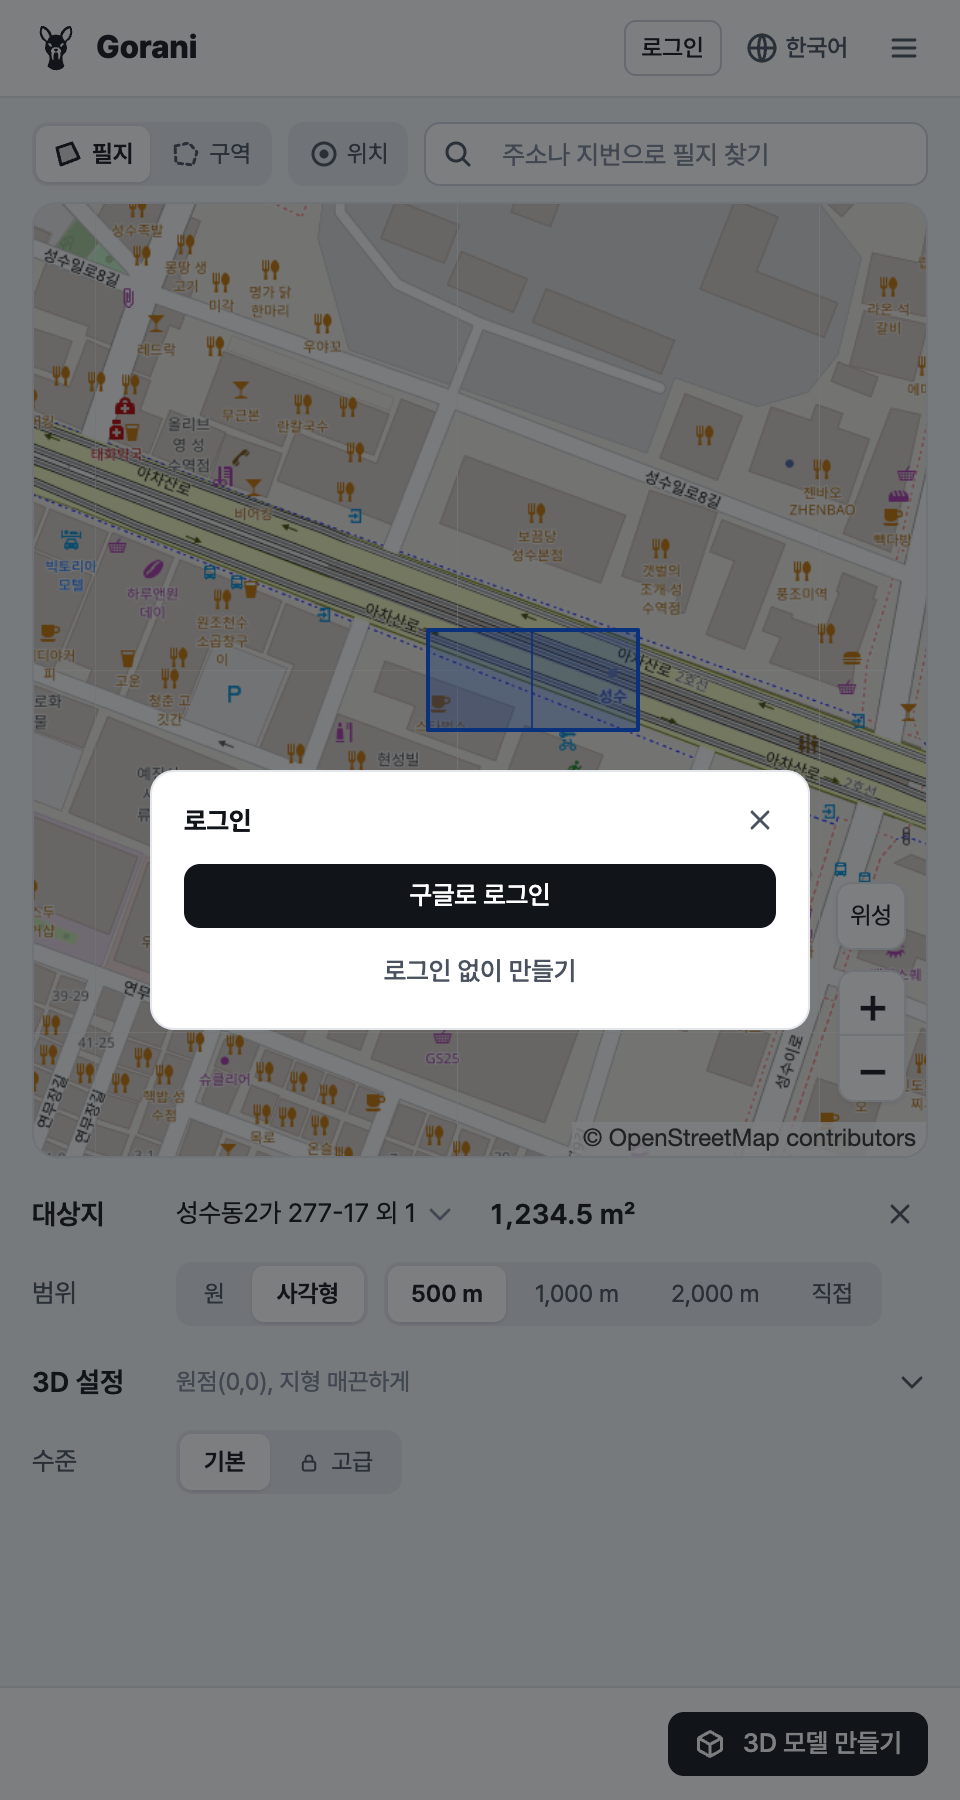
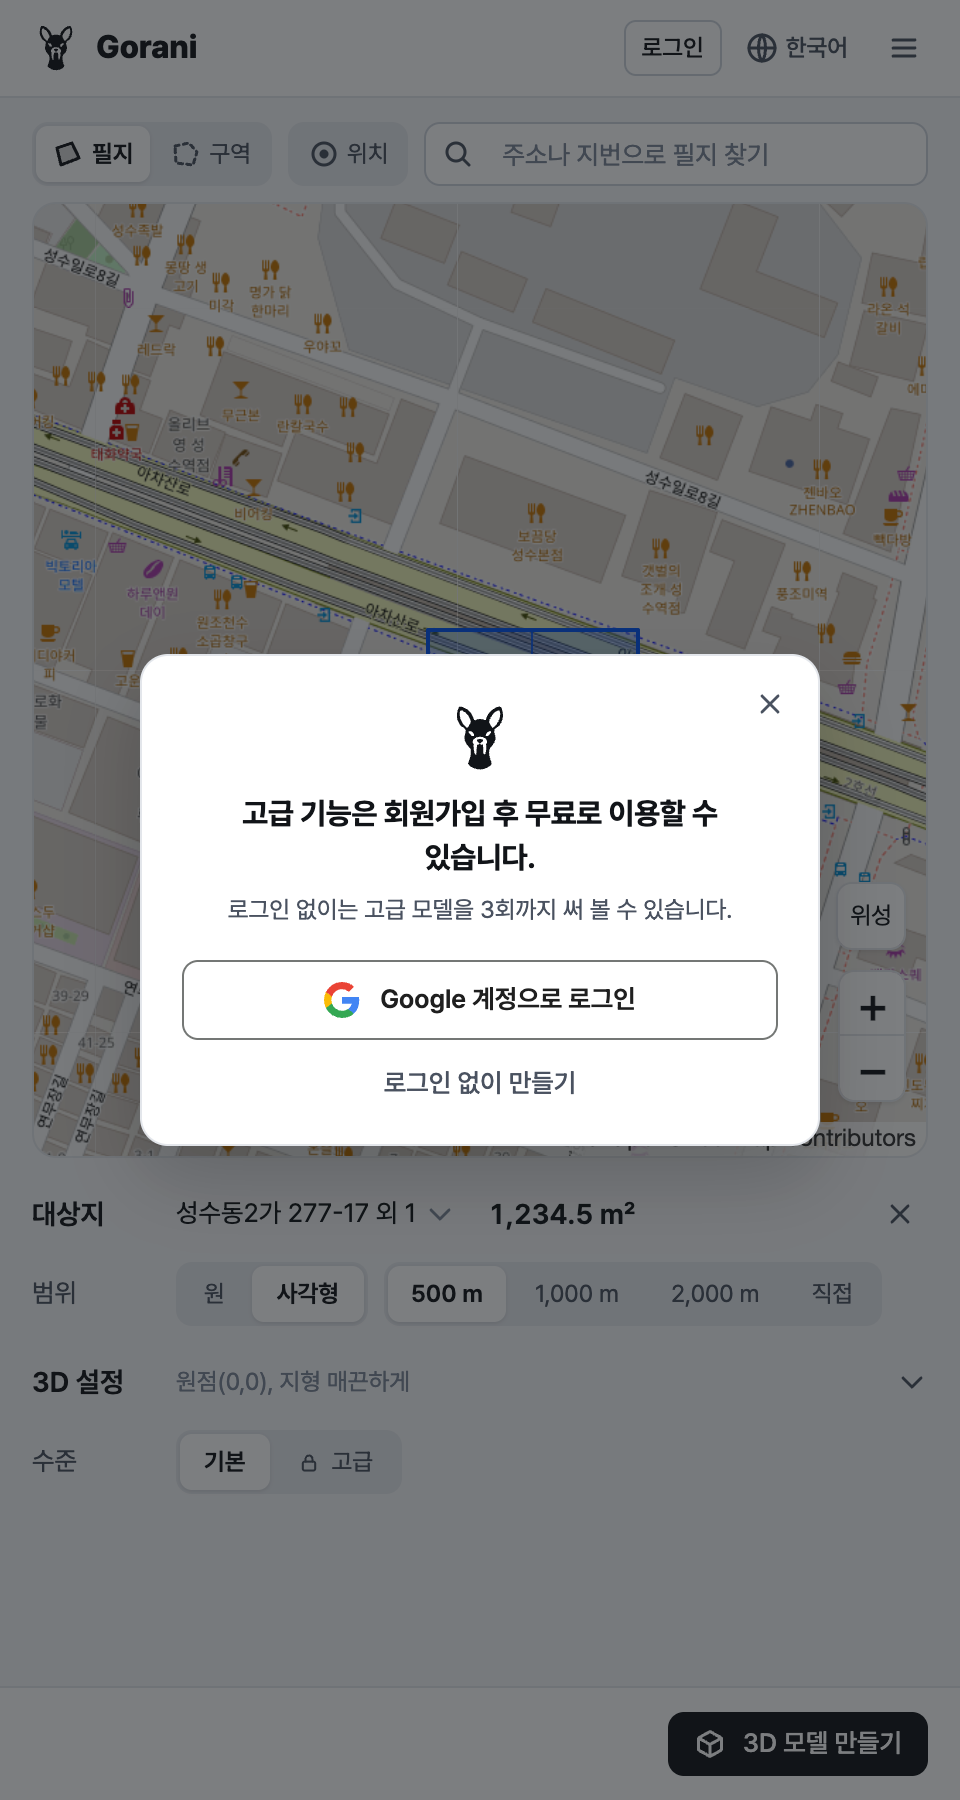
로그인 창 다시: 고라니 마크·가운데 정렬·고급 6종 체크 목록·Google 브랜드 단추(G 로고, 밝은·어두운), 처음 만들 때 '로그인 없이는 고급 모델을 n회까지' 알림, 써 보기 'n회 남음', 계정 창 머리글자

Changed region(s): [[0.125, 0.3422, 0.875, 0.6533]]

diff --git a/scripts/site_ui.html b/scripts/site_ui.html
@@ -128,18 +128,28 @@ html:lang(zh-Hans) body { font-family: -apple-system, "PingFang SC", "Microsoft 
 .hdr-login { height: 28px; padding: 0 10px; font-size: 12px; }
 #acct_pop { position: absolute; top: 44px; right: 8px; z-index: 1100; width: 248px; background: var(--surface); border: 1px solid var(--line); border-radius: 12px; box-shadow: 0 8px 24px rgba(0, 0, 0, .14); padding: 4px 0; }
 #acct_pop[hidden] { display: none; }
-#acct_pop .r { display: flex; align-items: center; gap: 8px; min-height: 44px; padding: 0 8px 0 12px; }
+#acct_pop .r { display: flex; align-items: center; gap: 10px; min-height: 52px; padding: 0 8px 0 12px; }
+#acct_pop .av { width: 30px; height: 30px; border-radius: 50%; background: var(--accent-wash); color: var(--accent-ink); display: grid; place-items: center; font-weight: 700; font-size: 13px; flex: none; text-transform: uppercase; }
 #acct_pop .v { flex: 1; min-width: 0; overflow: hidden; text-overflow: ellipsis; white-space: nowrap; }
 #acct_pop .v small { display: block; color: var(--ink-3); font-size: 11px; line-height: 16px; }
 #acct_modal { position: fixed; inset: 0; z-index: 1100; background: rgba(17, 20, 24, .55); display: flex; align-items: center; justify-content: center; padding: 16px; }
 #acct_modal[hidden] { display: none; }
-#acct_modal .dlg { position: relative; background: var(--surface); border: 1px solid var(--line); border-radius: 12px; padding: 16px 16px 12px; width: 100%; max-width: 330px; max-height: 100%; overflow: auto; }
-#acct_modal .adv { margin: -6px 28px 12px 0; color: var(--ink-3); font-size: 11.5px; line-height: 17px; }   /* 고급에 드는 것 한 줄 */
+#acct_modal .dlg { position: relative; background: var(--surface); border: 1px solid var(--line); border-radius: 14px; padding: 24px 20px 14px; width: 100%; max-width: 340px; max-height: 100%; overflow: auto; text-align: center; box-shadow: 0 16px 40px rgba(0, 0, 0, .18); }
 #acct_modal .x { position: absolute; top: 8px; right: 8px; }
-#acct_modal h2 { margin: 0 28px 12px 0; font-size: 13px; line-height: 1.4; font-weight: 700; }
-#acct_modal .wide { width: 100%; justify-content: center; }
-#acct_modal .wide + .wide { margin-top: 6px; }
-#acct_modal .spin { width: 22px; height: 22px; margin: 2px auto 10px; border: 2px solid var(--line); border-top-color: var(--ink); border-radius: 50%; animation: acct-spin 1s linear infinite; }
+#acct_modal .mk { display: block; width: 34px; height: 34px; margin: 0 auto 10px; color: var(--ink); }
+#acct_modal h2 { margin: 0 8px 6px; font-size: 15px; line-height: 22px; font-weight: 700; letter-spacing: -.01em; word-break: keep-all; }
+#acct_modal .sub { margin: 0 8px 16px; color: var(--ink-2); font-size: 12px; line-height: 18px; word-break: keep-all; }
+#acct_modal .gets { list-style: none; margin: 0 0 16px; padding: 10px 12px; border-radius: 10px; background: var(--press); display: grid; grid-template-columns: 1fr 1fr; gap: 4px 10px; text-align: left; font-size: 12px; line-height: 18px; color: var(--ink); }
+#acct_modal .gets li { display: flex; align-items: center; gap: 6px; min-width: 0; }
+#acct_modal .gets .ico { width: 12px; height: 12px; color: var(--accent); flex: none; }
+#acct_modal .alt { width: 100%; justify-content: center; margin-top: 6px; color: var(--ink-2); }
+#acct_modal .left-note { margin: 8px 0 0; color: var(--ink-3); font-size: 11px; line-height: 16px; }
+#acct_modal .spin { width: 28px; height: 28px; margin: 4px auto 14px; border: 2.5px solid var(--line); border-top-color: var(--accent); border-radius: 50%; animation: acct-spin .9s linear infinite; }
+/* Google 로그인 단추 — Google 브랜드 지침의 밝은·어두운 꼴(흰 바탕·회색 테두리·G 로고) */
+.gbtn { display: flex; align-items: center; justify-content: center; gap: 10px; width: 100%; height: 40px; padding: 0 12px; border-radius: 8px; border: 1px solid #747775; background: #fff; color: #1f1f1f; font: inherit; font-size: 13px; font-weight: 600; cursor: pointer; }
+.gbtn:hover { background: #f6f8fa; }
+.gbtn .g { width: 18px; height: 18px; flex: none; }
+@media (prefers-color-scheme: dark) { .gbtn { background: #131314; border-color: #8e918f; color: #e3e3e3; } .gbtn:hover { background: #1e1f20; } }
 @keyframes acct-spin { to { transform: rotate(360deg); } }
 .seg .lk { width: 11px; height: 11px; margin-right: 2px; vertical-align: -1px; }   /* 손님의 '고급' — 자물쇠 하나 */
 .check-list { display: grid; grid-template-columns: 1.4em 7em 1fr; gap: 4px 8px; margin-bottom: 16px; }
@@ -963,10 +973,11 @@ function rangeHtml() {
     '<div id="radius_hint" class="hint" hidden>' + tr("범위가 크면 만드는 데 1분 넘게 걸릴 수 있습니다") + "</div>";
 }
 // 수준 [기본 | 고급] — 3D 설정 아래 한 줄. 설명 줄은 두지 않고 '고급'에 든 것은 마우스 올림 글로(2026-11-16 사용자 — 단추 아래 줄은 지저분하다)
-function advancedNames() {
+function advancedKeys() {
   var f = state.init && state.init.features && state.init.features.detail_advanced;
-  return ((f && f.options) || Object.keys(DETAIL_NAMES)).map(function (k) { return tr(DETAIL_NAMES[k] || k); }).join(" · ");
+  return (f && f.options) || Object.keys(DETAIL_NAMES);
 }
+function advancedNames() { return advancedKeys().map(function (k) { return tr(DETAIL_NAMES[k] || k); }).join(" · "); }
 function isAdvanced(o) { return !!o && o.detail_level === "advanced"; }
 function levelHtml() {
   var adv = isAdvanced(state.options), lock = !!ACCT && ACCT.locked("detail_advanced");   // 손님 — 자물쇠, 고르면 플랜 창(ACCT)
@@ -2526,6 +2537,7 @@ var handlers = {
 };
 // [blender-cut] 회원 — 로그인은 시스템 브라우저(gorani.site/login/)에서, 패널은 계정 상태와 권한만 본다(docs/account_plan.md).
 // 손님이 '고급'을 고르면 플랜 창(Guest · Member), 머리줄 [로그인]·처음 만들기는 작은 로그인 창. 기다리는 동안 account_poll로 묻는다
+var G_LOGO = '<svg class="g" viewBox="0 0 48 48" aria-hidden="true"><path fill="#EA4335" d="M24 9.5c3.54 0 6.71 1.22 9.21 3.6l6.85-6.85C35.9 2.38 30.47 0 24 0 14.62 0 6.51 5.38 2.56 13.22l7.98 6.19C12.43 13.72 17.74 9.5 24 9.5z"/><path fill="#4285F4" d="M46.98 24.55c0-1.57-.15-3.09-.38-4.55H24v9.02h12.94c-.58 2.96-2.26 5.48-4.78 7.18l7.73 6c4.51-4.18 7.09-10.36 7.09-17.65z"/><path fill="#FBBC05" d="M10.53 28.59c-.48-1.45-.76-2.99-.76-4.59s.27-3.14.76-4.59l-7.98-6.19C.92 16.46 0 20.12 0 24c0 3.88.92 7.54 2.56 10.78l7.97-6.19z"/><path fill="#34A853" d="M24 48c6.48 0 11.93-2.13 15.89-5.81l-7.73-6c-2.15 1.45-4.92 2.3-8.16 2.3-6.26 0-11.57-4.22-13.47-9.91l-7.98 6.19C6.51 42.62 14.62 48 24 48z"/></svg>';   // Google G(브랜드 지침 — 로그인 단추에만)
 var ACCT_ICON = '<svg class="ico" viewBox="0 0 16 16" aria-hidden="true" fill="none" stroke="currentColor" stroke-width="1.3"><circle cx="8" cy="8" r="6.6"/><circle cx="8" cy="6.5" r="2.2"/><path d="M4.4 12.4c.9-1.5 2.1-2.3 3.6-2.3s2.7.8 3.6 2.3" stroke-linecap="round"/></svg>';
 ACCT = {
   trial: false, pending: null, poll: null, kind: null,
@@ -2551,22 +2563,30 @@ ACCT = {
   togglePop: function () {
     var p = $("acct_pop"), s = this.st();
     if (!p.hidden) { this.closePop(); return; }
-    p.innerHTML = '<div class="r"><span class="v">' + esc(s.email || "") + "<small>" + esc(s.plan_name || "Member") + '</small></span><button type="button" class="btn sm" data-act="acct_logout">' +
+    p.innerHTML = '<div class="r"><span class="av" aria-hidden="true">' + esc((s.email || "?").charAt(0)) + '</span><span class="v">' + esc(s.email || "") + "<small>" + esc(s.plan_name || "Member") + '</small></span><button type="button" class="btn sm" data-act="acct_logout">' +
       tr("로그아웃") + "</button></div>";
     p.hidden = false; this.renderHeader();
     var b = p.querySelector("button"); if (b) b.focus();
   },
   closePop: function () { $("acct_pop").hidden = true; this.renderHeader(); },
-  open: function (kind, build) {   // plans | login | wait
-    var m = $("acct_modal"), x = '<button type="button" class="ib x" data-act="acct_close" aria-label="' + tr("닫기") + '" title="' + tr("닫기") + '">' + ico("x") + "</button>";
-    var google = '<button type="button" class="btn primary wide" data-act="acct_login">' + tr("구글로 로그인") + "</button>", html, left = this.left("detail_advanced");
+  open: function (kind, build) {   // plans(손님이 고급) | login(머리줄, 처음 만들기면 build) | wait
+    var m = $("acct_modal"), left = this.left("detail_advanced"), html;
+    var x = '<button type="button" class="ib x" data-act="acct_close" aria-label="' + tr("닫기") + '" title="' + tr("닫기") + '">' + ico("x") + "</button>";
+    var mark = '<svg class="ico mk" aria-hidden="true"><use href="#i-gorani"/></svg>';
+    var title = function (t) { return '<h2 id="acct_title">' + t + "</h2>"; };
+    var sub = function (t) { return '<p class="sub">' + t + "</p>"; };
+    var google = '<button type="button" class="gbtn" data-act="acct_login">' + G_LOGO + tr("Google 계정으로 로그인") + "</button>";
+    var free = tr("고급 기능은 회원가입 후 무료로 이용할 수 있습니다.");
+    var limit = left ? tr("로그인 없이는 고급 모델을 {0}회까지 써 볼 수 있습니다.", left) : tr("로그인 없이 써 볼 수 있는 고급 모델을 다 썼습니다.");
     this.kind = kind;
-    if (kind === "wait") html = '<div class="spin" aria-hidden="true"></div><h2 id="acct_title" style="margin-right:0;text-align:center">' + tr("브라우저에서 로그인 중") + "</h2>" +
-      '<button type="button" class="btn wide" data-act="acct_close">' + tr("취소") + "</button>";
-    else if (kind === "plans") html = x + '<h2 id="acct_title">' + tr("고급 기능은 회원가입 후 무료로 이용할 수 있습니다.") + '</h2><p class="adv">' + esc(advancedNames()) + "</p>" + google +   // 손님·회원 비교 없이 한 문장(2026-11-18 사용자)
-      (left ? '<button type="button" class="btn ghost wide" data-act="acct_trial">' + tr("로그인 없이 써 보기 ({0}회)", left) + "</button>" : "");
-    else html = x + '<h2 id="acct_title">' + tr("로그인") + "</h2>" + google +
-      (build ? '<button type="button" class="btn ghost wide" data-act="acct_skip">' + tr("로그인 없이 만들기") + "</button>" : "");
+    if (kind === "wait") html = '<div class="spin" aria-hidden="true"></div>' + title(tr("브라우저에서 로그인 중")) + sub(tr("브라우저에서 Google 계정을 고르면 저절로 돌아옵니다.")) +
+      '<button type="button" class="btn alt" data-act="acct_close">' + tr("취소") + "</button>";
+    else if (kind === "plans") html = x + mark + title(free) +
+      '<ul class="gets">' + advancedKeys().map(function (k) { return "<li>" + ico("check") + "<span>" + esc(tr(DETAIL_NAMES[k] || k)) + "</span></li>"; }).join("") + "</ul>" + google +
+      (left ? '<button type="button" class="btn ghost alt" data-act="acct_trial">' + tr("로그인 없이 써 보기 · {0}회 남음", left) + "</button>" : '<p class="left-note">' + limit + "</p>");
+    else if (build) html = x + mark + title(free) + sub(limit) + google +   // 처음 만들 때 — 써 보기 한도를 여기서 알린다(2026-11-18 사용자)
+      '<button type="button" class="btn ghost alt" data-act="acct_skip">' + tr("로그인 없이 만들기") + "</button>";
+    else html = x + mark + title(tr("Gorani 로그인")) + sub(free) + google;
     m.innerHTML = '<div class="dlg">' + html + "</div>";
     m.hidden = false;
     var f = m.querySelector('[data-act="acct_login"]') || m.querySelector('[data-act="acct_close"]'); if (f) f.focus();
